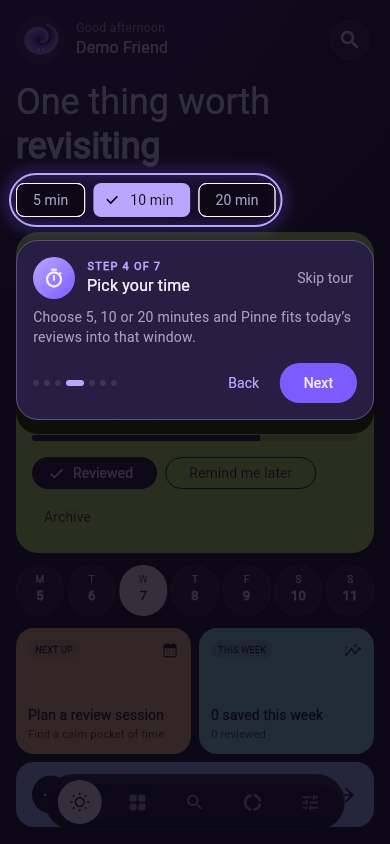
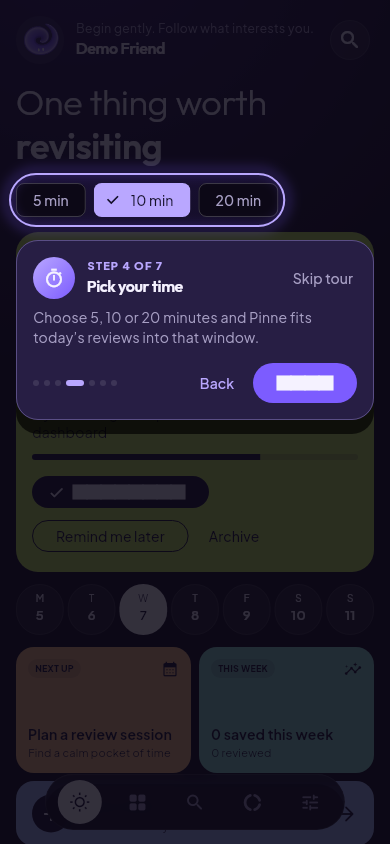
test: render bundled fonts in Linux goldens

diff --git a/pinne_flutter/lib/features/auth/sign_in_screen.dart b/pinne_flutter/lib/features/auth/sign_in_screen.dart
@@ -41,6 +41,7 @@ class _SignInScreenState extends ConsumerState<SignInScreen> {
     final emailDelivery = ref.watch(emailDeliveryAvailableProvider);
     final emailAvailable = emailDelivery.asData?.value ?? false;
     final client = ref.watch(clientProvider);
+    final alreadySignedIn = ref.watch(signedInProvider);
     return Scaffold(
       appBar: AppBar(title: const Text('Sign in')),
       body: SafeArea(
@@ -53,36 +54,46 @@ class _SignInScreenState extends ConsumerState<SignInScreen> {
                 crossAxisAlignment: CrossAxisAlignment.stretch,
                 children: [
                   Text(
-                    'Start saving in one tap',
+                    alreadySignedIn
+                        ? 'Choose an account'
+                        : 'Start saving in one tap',
                     textAlign: TextAlign.center,
                     style: Theme.of(context).textTheme.headlineSmall,
                   ),
                   const SizedBox(height: PinneSpacing.sm),
-                  const Text(
-                    'You can try every core feature without setting up an '
-                    'account.',
+                  Text(
+                    alreadySignedIn
+                        ? 'Signing in or creating an account switches away '
+                              'from your guest account. Guest saves do not '
+                              'transfer.'
+                        : 'You can try every core feature without setting up '
+                              'an account.',
+                    key: alreadySignedIn
+                        ? const ValueKey('guest-account-switch-notice')
+                        : null,
                     textAlign: TextAlign.center,
-                    style: TextStyle(color: PinneColors.muted),
+                    style: const TextStyle(color: PinneColors.muted),
                   ),
                   const SizedBox(height: PinneSpacing.xl),
-                  FilledButton(
-                    key: const ValueKey('guest-sign-in-button'),
-                    style: pinnePrimaryActionStyle(),
-                    onPressed: _guestLoading ? null : _signInAsGuest,
-                    child: _guestLoading
-                        ? const Row(
-                            mainAxisSize: MainAxisSize.min,
-                            children: [
-                              PinneBrandedLoader(
-                                size: 20,
-                                label: 'Starting guest session',
-                              ),
-                              SizedBox(width: PinneSpacing.sm),
-                              Text('Starting…'),
-                            ],
-                          )
-                        : const Text('Try without an account'),
-                  ),
+                  if (!alreadySignedIn)
+                    FilledButton(
+                      key: const ValueKey('guest-sign-in-button'),
+                      style: pinnePrimaryActionStyle(),
+                      onPressed: _guestLoading ? null : _signInAsGuest,
+                      child: _guestLoading
+                          ? const Row(
+                              mainAxisSize: MainAxisSize.min,
+                              children: [
+                                PinneBrandedLoader(
+                                  size: 20,
+                                  label: 'Starting guest session',
+                                ),
+                                SizedBox(width: PinneSpacing.sm),
+                                Text('Starting…'),
+                              ],
+                            )
+                          : const Text('Try without an account'),
+                    ),
                   if (!emailAvailable) ...[
                     const SizedBox(height: PinneSpacing.md),
                     const Text(

diff --git a/pinne_flutter/lib/features/settings/profile_screen.dart b/pinne_flutter/lib/features/settings/profile_screen.dart
@@ -2,12 +2,14 @@ import 'package:flutter/material.dart';
 import 'package:flutter_riverpod/flutter_riverpod.dart';
 import 'package:go_router/go_router.dart';
 import 'package:pinne_client/pinne_client.dart';
+import 'package:skeletonizer/skeletonizer.dart';
 
 import '../../core/server_client.dart';
 import '../../router.dart';
 import '../../shell/pinne_page.dart';
 import '../../theme/pinne_tokens.dart';
 import '../../ui/feedback/friendly_error.dart';
+import '../../ui/pinne_loading.dart';
 import '../../ui/ribbon_spirit/ribbon_spirit.dart';
 import 'profile_provider.dart';
 
@@ -385,31 +387,41 @@ class _ProfileSkeleton extends StatelessWidget {
   const _ProfileSkeleton();
 
   @override
-  Widget build(BuildContext context) => Column(
-    key: const ValueKey('profile-skeleton'),
-    children: [
-      for (final height in [144.0, 188.0, 150.0]) ...[
-        Container(
-          height: height,
-          decoration: BoxDecoration(
-            color: PinneColors.glass,
-            borderRadius: BorderRadius.circular(PinneRadii.card),
-            border: Border.all(color: PinneColors.line),
-          ),
-          padding: const EdgeInsets.all(PinneSpacing.lg),
-          alignment: Alignment.topLeft,
-          child: Container(
-            width: height,
-            height: 16,
-            decoration: BoxDecoration(
-              color: PinneColors.cardRaised,
-              borderRadius: BorderRadius.circular(PinneRadii.chip),
+  Widget build(BuildContext context) => const PinneSkeleton(
+    label: 'Loading your profile',
+    child: Column(
+      key: ValueKey('profile-skeleton'),
+      children: [
+        GlassCard(
+          child: SizedBox(
+            height: 112,
+            child: Row(
+              children: [
+                Bone.circle(size: 96),
+                SizedBox(width: PinneSpacing.lg),
+                Expanded(
+                  child: Column(
+                    crossAxisAlignment: CrossAxisAlignment.start,
+                    mainAxisAlignment: MainAxisAlignment.center,
+                    children: [
+                      Bone.text(width: 142, fontSize: 24),
+                      SizedBox(height: PinneSpacing.sm),
+                      Bone.button(width: 68, height: 24),
+                      SizedBox(height: PinneSpacing.sm),
+                      Bone.text(width: 172, fontSize: 13),
+                    ],
+                  ),
+                ),
+              ],
             ),
           ),
         ),
-        const SizedBox(height: PinneSpacing.md),
+        SizedBox(height: PinneSpacing.md),
+        PinneCardSkeleton(height: 118, label: 'Loading profile progress'),
+        SizedBox(height: PinneSpacing.md),
+        PinneCardSkeleton(height: 88, label: 'Loading account details'),
       ],
-    ],
+    ),
   );
 }
 

diff --git a/pinne_flutter/test/support/golden_theme.dart b/pinne_flutter/test/support/golden_theme.dart
@@ -2,18 +2,25 @@ import 'dart:io';
 
 import 'package:flutter/material.dart';
 import 'package:flutter/services.dart';
-import 'package:pinne_flutter/theme/pinne_tokens.dart';
+import 'package:pinne_flutter/theme/pinne_theme.dart';
 
-/// Pinne's tokens with SDK Roboto: Linux goldens need no font network/cache.
+/// Loads Pinne's bundled fonts so Linux goldens match every offline phone.
 Future<void> loadGoldenFonts() async {
-  final sdk = Platform.environment['FLUTTER_ROOT']!;
-  final font = FontLoader('Roboto')
+  final outfit = FontLoader('Outfit')
     ..addFont(
       File(
-        '$sdk/bin/cache/artifacts/material_fonts/Roboto-Regular.ttf',
+        'assets/fonts/outfit/Outfit-VariableFont_wght.ttf',
       ).readAsBytes().then((bytes) => ByteData.sublistView(bytes)),
     );
-  await font.load();
+  await outfit.load();
+  final jakarta = FontLoader('Plus Jakarta Sans')
+    ..addFont(
+      File(
+        'assets/fonts/plus_jakarta_sans/PlusJakartaSans-VariableFont_wght.ttf',
+      ).readAsBytes().then((bytes) => ByteData.sublistView(bytes)),
+    );
+  await jakarta.load();
+  final sdk = Platform.environment['FLUTTER_ROOT']!;
   final icons = FontLoader('MaterialIcons')
     ..addFont(
       File(
@@ -23,31 +30,4 @@ Future<void> loadGoldenFonts() async {
   await icons.load();
 }
 
-ThemeData goldenTheme() => ThemeData(
-  useMaterial3: true,
-  colorScheme: const ColorScheme.dark(
-    primary: PinneColors.violet,
-    onPrimary: PinneColors.text,
-    secondary: PinneColors.lilac,
-    surface: PinneColors.midnight,
-    onSurface: PinneColors.text,
-    onSurfaceVariant: PinneColors.muted,
-    outline: PinneColors.line,
-    surfaceContainerHigh: PinneColors.cardRaised,
-  ),
-  scaffoldBackgroundColor: PinneColors.midnight,
-  textTheme: ThemeData.dark().textTheme.apply(
-    fontFamily: 'Roboto',
-    bodyColor: PinneColors.text,
-    displayColor: PinneColors.text,
-  ),
-  filledButtonTheme: FilledButtonThemeData(
-    style: FilledButton.styleFrom(
-      backgroundColor: PinneColors.violet,
-      foregroundColor: PinneColors.text,
-    ),
-  ),
-  textButtonTheme: TextButtonThemeData(
-    style: TextButton.styleFrom(foregroundColor: PinneColors.lilac),
-  ),
-);
+ThemeData goldenTheme() => pinneDarkTheme();

diff --git a/pinne_flutter/test/tour_test.dart b/pinne_flutter/test/tour_test.dart
@@ -9,6 +9,7 @@ import 'package:pinne_flutter/features/capture/capture_providers.dart';
 import 'package:pinne_flutter/features/capture/capture_store.dart';
 import 'package:pinne_flutter/features/settings/profile_provider.dart';
 import 'package:pinne_flutter/features/today/today_providers.dart';
+import 'package:pinne_flutter/features/today/today_greeting.dart';
 import 'package:pinne_flutter/features/today/today_screen.dart';
 import 'package:pinne_flutter/features/tour/tour_controller.dart';
 import 'package:pinne_flutter/features/tour/tour_store.dart';
@@ -41,6 +42,7 @@ Widget _app(TourStore store) => ProviderScope(
     signedInProvider.overrideWith(_SignedOut.new),
     motionPreferenceProvider.overrideWith(_AlwaysReduced.new),
     tourStoreProvider.overrideWithValue(store),
+    greetingIndexPickerProvider.overrideWithValue((_) => 0),
   ],
   child: const PinneApp(),
 );
@@ -143,7 +145,10 @@ void main() {
     await tester.pumpAndSettle();
     expect(_overlay, findsNothing);
     expect(store.seen, isTrue);
-    expect(find.textContaining('curiosity'), findsOneWidget);
+    expect(
+      find.byKey(const ValueKey('today-calm-headline')),
+      findsOneWidget,
+    );
   });
 
   testWidgets('Settings can show the tour again', (tester) async {
@@ -158,7 +163,10 @@ void main() {
     await tester.pumpAndSettle();
     expect(_overlay, findsOneWidget);
     expect(_title(tester), 'Welcome to Pinne');
-    expect(find.textContaining('curiosity'), findsOneWidget);
+    expect(
+      find.byKey(const ValueKey('today-calm-headline')),
+      findsOneWidget,
+    );
   });
 
   const screens = {
@@ -257,6 +265,7 @@ void main() {
             CaptureStore(sqlite3.openInMemory()),
           ),
           tourStoreProvider.overrideWithValue(MemoryTourStore()),
+          greetingIndexPickerProvider.overrideWithValue((_) => 0),
           todayClockProvider.overrideWithValue(DateTime(2026, 10, 7, 17, 30)),
           profileProvider.overrideWith(
             (_) async => PinneProfile(

diff --git a/pinne_flutter/test/widget_test.dart b/pinne_flutter/test/widget_test.dart
@@ -7,6 +7,7 @@ import 'package:pinne_flutter/core/server_client.dart';
 import 'package:pinne_flutter/features/capture/capture_providers.dart';
 import 'package:pinne_flutter/features/capture/capture_store.dart';
 import 'package:pinne_flutter/features/collections/collection_cover.dart';
+import 'package:pinne_flutter/features/today/today_greeting.dart';
 import 'package:sqlite3/sqlite3.dart';
 
 import 'capture/fake_capture_server.dart';
@@ -35,6 +36,7 @@ Widget _app({List overrides = const []}) => ProviderScope(
     captureApiProvider.overrideWithValue(FakeCaptureServer()),
     signedInProvider.overrideWith(_SignedOut.new),
     motionPreferenceProvider.overrideWith(_AlwaysReduced.new),
+    greetingIndexPickerProvider.overrideWithValue((_) => 0),
     ...overrides,
   ],
   child: const PinneApp(),
@@ -46,18 +48,29 @@ void main() {
   ) async {
     await tester.pumpWidget(_app());
     await tester.pumpAndSettle();
-    expect(find.textContaining('curiosity'), findsOneWidget);
+    expect(
+      find.byKey(const ValueKey('today-calm-headline')),
+      findsOneWidget,
+    );
 
     final tabs = {
       'collections': 'collections',
       'search': 'your way',
       'progress': 'progress',
-      'today': 'curiosity',
+      'today': null,
     };
     for (final MapEntry(key: tab, value: headline) in tabs.entries) {
       await tester.tap(find.byKey(ValueKey('nav-$tab')));
       await tester.pumpAndSettle();
-      expect(find.textContaining(headline), findsWidgets, reason: tab);
+      if (headline == null) {
+        expect(
+          find.byKey(const ValueKey('today-calm-headline')),
+          findsOneWidget,
+          reason: tab,
+        );
+      } else {
+        expect(find.textContaining(headline), findsWidgets, reason: tab);
+      }
     }
   });
 

diff --git a/pinne_flutter/test/auth_guest_widgets_test.dart b/pinne_flutter/test/auth_guest_widgets_test.dart
@@ -94,4 +94,35 @@ void main() {
     await tester.pumpWidget(const SizedBox.shrink());
     await tester.pump(const Duration(seconds: 1));
   });
+
+  testWidgets('guest account switch never offers a second guest account', (
+    tester,
+  ) async {
+    await tester.binding.setSurfaceSize(const Size(500, 1000));
+    addTearDown(() => tester.binding.setSurfaceSize(null));
+
+    await tester.pumpWidget(
+      ProviderScope(
+        overrides: [
+          clientProvider.overrideWithValue(_client()),
+          signedInProvider.overrideWith(_SignedIn.new),
+          emailDeliveryAvailableProvider.overrideWith((ref) async => true),
+        ],
+        child: MaterialApp(
+          theme: pinneDarkTheme(),
+          home: const SignInScreen(),
+        ),
+      ),
+    );
+    await tester.pumpAndSettle();
+
+    expect(
+      find.byKey(const ValueKey('guest-account-switch-notice')),
+      findsOneWidget,
+    );
+    expect(
+      find.byKey(const ValueKey('guest-sign-in-button')),
+      findsNothing,
+    );
+  });
 }

diff --git a/pinne_flutter/test/ui_fidelity_after_goldens_test.dart b/pinne_flutter/test/ui_fidelity_after_goldens_test.dart
@@ -10,6 +10,7 @@ import 'package:pinne_flutter/features/search/search_providers.dart';
 import 'package:pinne_flutter/features/search/search_screen.dart';
 import 'package:pinne_flutter/features/settings/profile_provider.dart';
 import 'package:pinne_flutter/features/today/today_providers.dart';
+import 'package:pinne_flutter/features/today/today_greeting.dart';
 import 'package:pinne_flutter/features/today/today_screen.dart';
 import 'package:pinne_flutter/shell/pill_nav_bar.dart';
 import 'package:pinne_flutter/ui/motion.dart';
@@ -73,6 +74,7 @@ void main() {
   }) => ProviderScope(
     overrides: [
       signedInProvider.overrideWith(_SignedOut.new),
+      greetingIndexPickerProvider.overrideWithValue((_) => 0),
       captureStoreProvider.overrideWithValue(
         CaptureStore(sqlite3.openInMemory()),
       ),

diff --git a/pinne_flutter/test/loading_states_test.dart b/pinne_flutter/test/loading_states_test.dart
@@ -3,7 +3,6 @@ import 'dart:async';
 import 'package:flutter/material.dart';
 import 'package:flutter_riverpod/flutter_riverpod.dart';
 import 'package:flutter_test/flutter_test.dart';
-import 'package:google_fonts/google_fonts.dart';
 import 'package:pinne_client/pinne_client.dart';
 import 'package:pinne_flutter/core/motion.dart';
 import 'package:pinne_flutter/features/capture/capture_providers.dart';
@@ -19,7 +18,6 @@ import 'support/golden_theme.dart';
 
 void main() {
   setUpAll(() async {
-    GoogleFonts.config.allowRuntimeFetching = false;
     await loadGoldenFonts();
   });
 

diff --git a/pinne_server/lib/src/auth/account_endpoint.dart b/pinne_server/lib/src/auth/account_endpoint.dart
@@ -41,7 +41,9 @@ class AccountEndpoint extends Endpoint {
       session,
       where: (table) => table.authUserId.equals(ownerId),
     );
-    final email = emailAccount?.email;
+    final userProfile = await AuthServices.instance.userProfiles
+        .maybeFindUserProfileByUserId(session, ownerId);
+    final email = emailAccount?.email ?? userProfile?.email;
     final configuredDemoEmail = session.serverpod
         .getPassword('demoAccountEmail')
         ?.trim()
